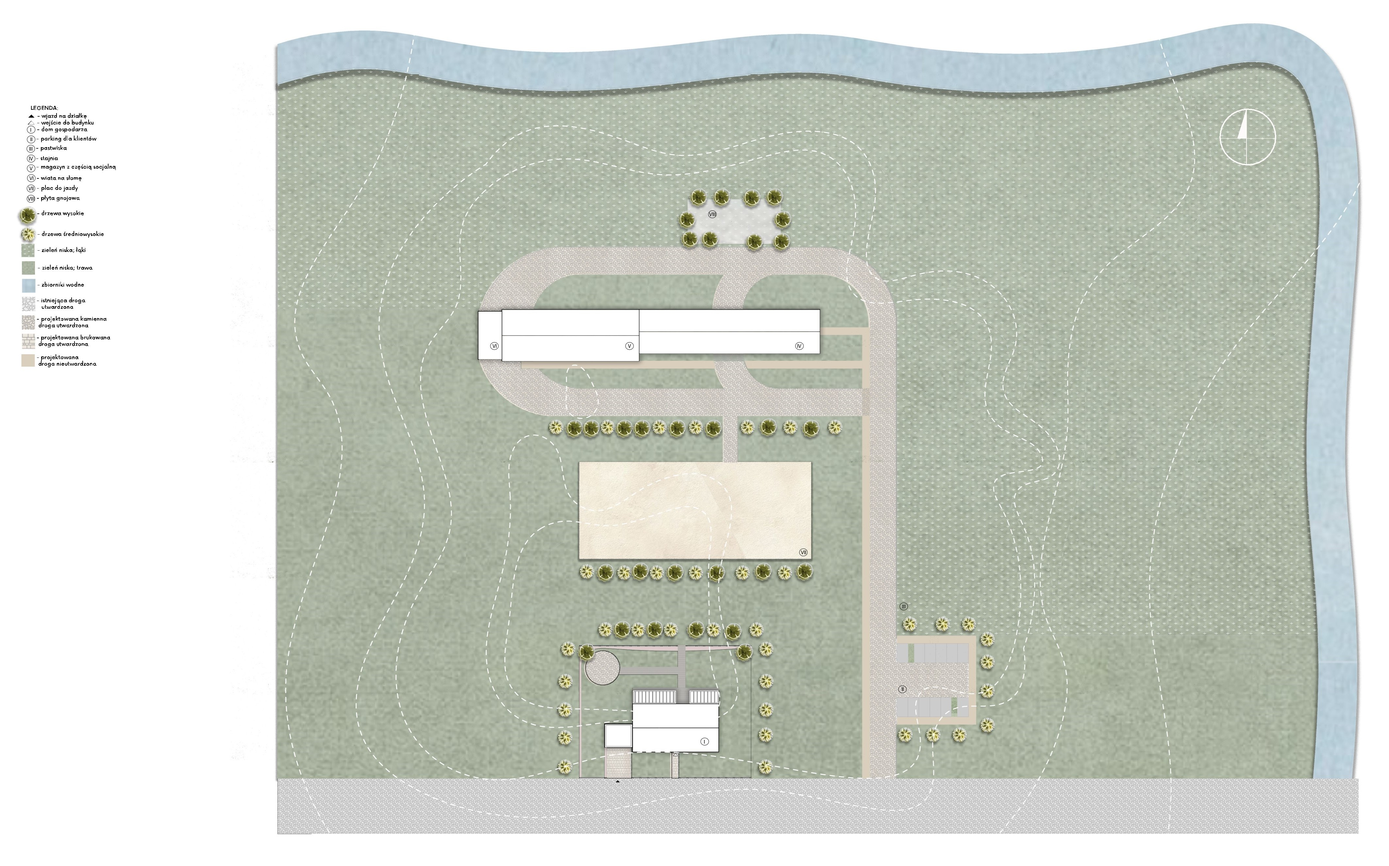
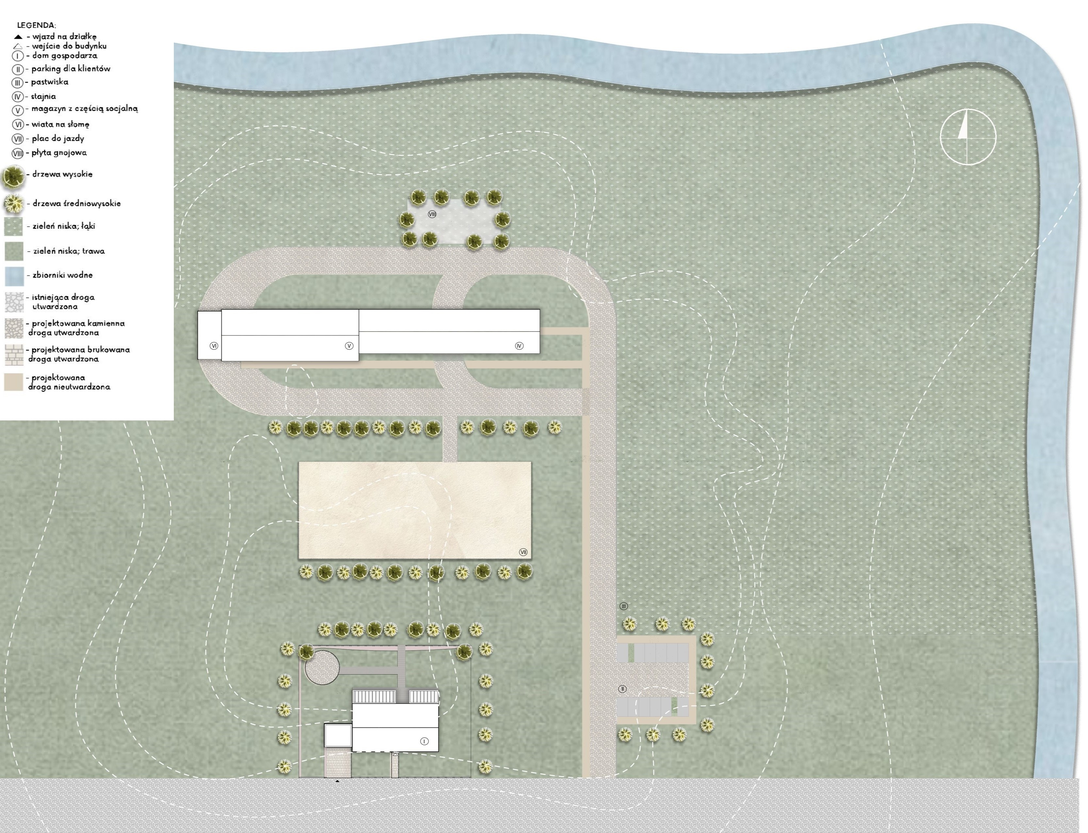
zmiana pzt stajnia

diff --git a/en/portfolio/urban.html b/en/portfolio/urban.html
@@ -10,83 +10,7 @@
     <link href="../../dist/tailwind.css" rel="stylesheet" />
     <link href="../../styles.css" rel="stylesheet" />
   </head>
-  <body>
-    <section id="nav" class="pb-16">
-      <!-- navbar -->
-      <nav class="bg-white fixed w-screen z-50">
-        <div class="mx-auto max-w-7xl px-2 sm:px-6 lg:px-8">
-          <div class="relative flex h-16 items-center justify-between">
-            <div class="absolute inset-y-0 left-0 flex items-center sm:hidden">
-              <!-- Mobile menu button-->
-              <button
-                type="button"
-                class="inline-flex items-center justify-center p-2 text-gray-400 hover:bg-gray-700 hover:text-white focus:outline-none focus:ring-2 focus:ring-inset focus:ring-white"
-                aria-controls="mobile-menu"
-                aria-expanded="false"
-                onclick="toggleMenu()"
-              >
-                <span class="sr-only">Open main menu</span>
-                <svg
-                  class="block h-6 w-6"
-                  fill="none"
-                  viewBox="0 0 24 24"
-                  stroke-width="1.5"
-                  stroke="currentColor"
-                  aria-hidden="true"
-                  id="hamburger-open"
-                >
-                  <path
-                    stroke-linecap="round"
-                    stroke-linejoin="round"
-                    d="M3.75 6.75h16.5M3.75 12h16.5m-16.5 5.25h16.5"
-                  />
-                </svg>
-                <svg
-                  class="hidden h-6 w-6"
-                  fill="none"
-                  viewBox="0 0 24 24"
-                  stroke-width="1.5"
-                  stroke="currentColor"
-                  aria-hidden="true"
-                  id="hamburger-close"
-                >
-                  <path
-                    stroke-linecap="round"
-                    stroke-linejoin="round"
-                    d="M6 18L18 6M6 6l12 12"
-                  />
-                </svg>
-              </button>
-            </div>
-            <div
-              class="flex flex-1 items-center justify-center sm:items-stretch sm:justify-start"
-              id="menu"
-            >
-              <div class="hidden sm:ml-6 sm:block">
-                <div class="flex space-x-">
-                  <!-- Current: "bg-gray-900 text-white", Default: "text-gray-300 hover:bg-gray-700 hover:text-white" -->
-                  <a
-                    href="../index.html#portfolio"
-                    class="text-gray-900 hover:border-b hover:border-b-gray-800 px-3 py-2 text-sm font-medium"
-                    >Portfolio</a
-                  >
-                  <a
-                    href="../index.html#about"
-                    class="text-gray-900 hover:border-b hover:border-b-gray-800 px-3 py-2 text-sm font-medium"
-                    aria-current="page"
-                    >About me</a
-                  >
-                  <a
-                    href="../index.html#contact"
-                    class="text-gray-900 hover:border-b hover:border-b-gray-800 px-3 py-2 text-sm font-medium"
-                    >Contact</a
-                  >
-                </div>
-              </div>
-            </div>
-          </div>
-        </div>
-
+  
 <body>
     <section id="nav" class="pb-16">
         <!-- navbar -->
@@ -172,10 +96,7 @@
                         relaxation, enjoying green spaces, and indulging in gastronomic offerings.
                     </p>
                 </div>
-                <img src="../assets/pool/aksonometria.jpg" />
-                <h2 class="uppercase text-lg text-left w-full">Site analysis</h2>
-                <div class="flex gap-1"></div>
-                <img src="../assets/pool/pool.jpg" />
+                
             </div>
             <div class="py-4">
               <h2 class="sticky top-14 bg-white z-20 pt-10 uppercase text-lg w-full text-center">
@@ -185,13 +106,13 @@
                 <h3 class="sticky top-28 bg-white z-10 pt-4 mb-2 uppercase text-base text-center w-full">
                   Landscape
                 </h3>
-                <img loading="lazy" class="pt-1" src="../assets/urban/analiza zieleni.jpg" />
+                <img loading="lazy" class="pt-1" src="../../assets/urban/analiza zieleni.jpg" />
               </div>
               <div>
                 <h3 class="sticky top-28 bg-white z-10 pt-4 mb-2 uppercase text-base text-center w-full">
                   Composition
                 </h3>
-                <img loading="lazy" class="pt-1" src="../assets/urban/analiza kompozycyjna.jpg" />
+                <img loading="lazy" class="pt-1" src="../../assets/urban/analiza kompozycyjna.jpg" />
               </div>
             </div>
             <div class="py-4">
@@ -202,13 +123,13 @@
                 <h3 class="sticky top-28 bg-white z-10 pt-4 mb-2 uppercase text-base text-center w-full">
                  Market square
                 </h3>
-                <img class="pt-1" src="../assets/urban/rzut posadzki rynku .jpg" />
+                <img class="pt-1" src="../../assets/urban/rzut posadzki rynku .jpg" />
               </div>
               <div>
                 <h3 class="sticky top-28 bg-white z-10 pt-4 mb-2 uppercase text-base text-center w-full">
                   Rainwater menagment diagram
                 </h3>
-                <img loading="lazy" class="pt-1" src="../assets/urban/schemat zagospodarowania wody opadowej.jpg" />
+                <img loading="lazy" class="pt-1" src="../../assets/urban/schemat zagospodarowania wody opadowej.jpg" />
               </div>
               
            
@@ -218,10 +139,10 @@
                 Before/After
               </h2>
               zdjęcie stanu istniejącego obok wizualizacja w kolorze
-              <img loading="lazy" class="pt-1 w-full text-center" src="../assets/urban/zdjęcie stanu istniejącego.jpg" />
-              <img loading="lazy" class="pt-1 w-full text-center" src="../assets/urban/wizualizacja rynku .jpg" />
-              <img loading="lazy" class="pt-1 w-full text-center" src="../assets/urban/zdjęcie stanu istniejącego (2).jpg" />
-              <img loading="lazy" class="pt-1 w-full text-center" src="../assets/urban/wizualizacja rynku od strony ratusza.jpg" />
+              <img loading="lazy" class="pt-1 w-full text-center" src="../../assets/urban/zdjęcie stanu istniejącego.jpg" />
+              <img loading="lazy" class="pt-1 w-full text-center" src="../../assets/urban/wizualizacja rynku .jpg" />
+              <img loading="lazy" class="pt-1 w-full text-center" src="../../assets/urban/zdjęcie stanu istniejącego (2).jpg" />
+              <img loading="lazy" class="pt-1 w-full text-center" src="../../assets/urban/wizualizacja rynku od strony ratusza.jpg" />
             </div>
             
           </div>

diff --git a/en/portfolio/pool.html b/en/portfolio/pool.html
@@ -188,19 +188,7 @@
                 src="../../assets/pool/rzut poziom 0.jpg"
               />
             </div>
-          </div>
-          <div class="pb-4">
-            <h2
-              class="sticky mb-2 top-24 bg-white z-20 uppercase text-lg text-center w-full"
-            >
-              Detail floor plan
-            </h2>
-            <img
-              loading="lazy"
-              class="pt-1 w-full text-center"
-              src="../../assets/kraszewskiego/detail.jpg"
-            />
-          </div>
+          
           <div class="pb-4">
             <h2
               class="sticky mb-2 top-24 bg-white z-20 uppercase text-lg text-center w-full"
